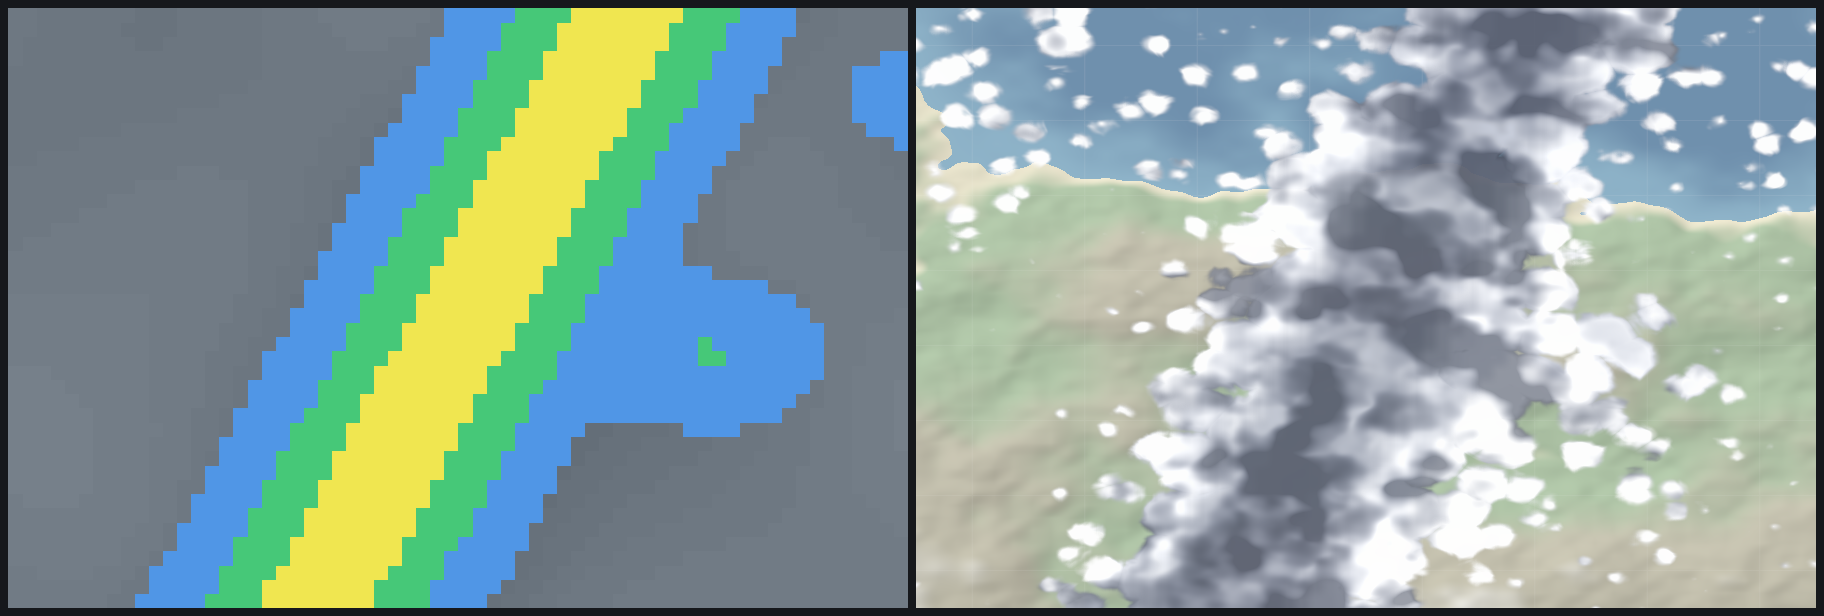
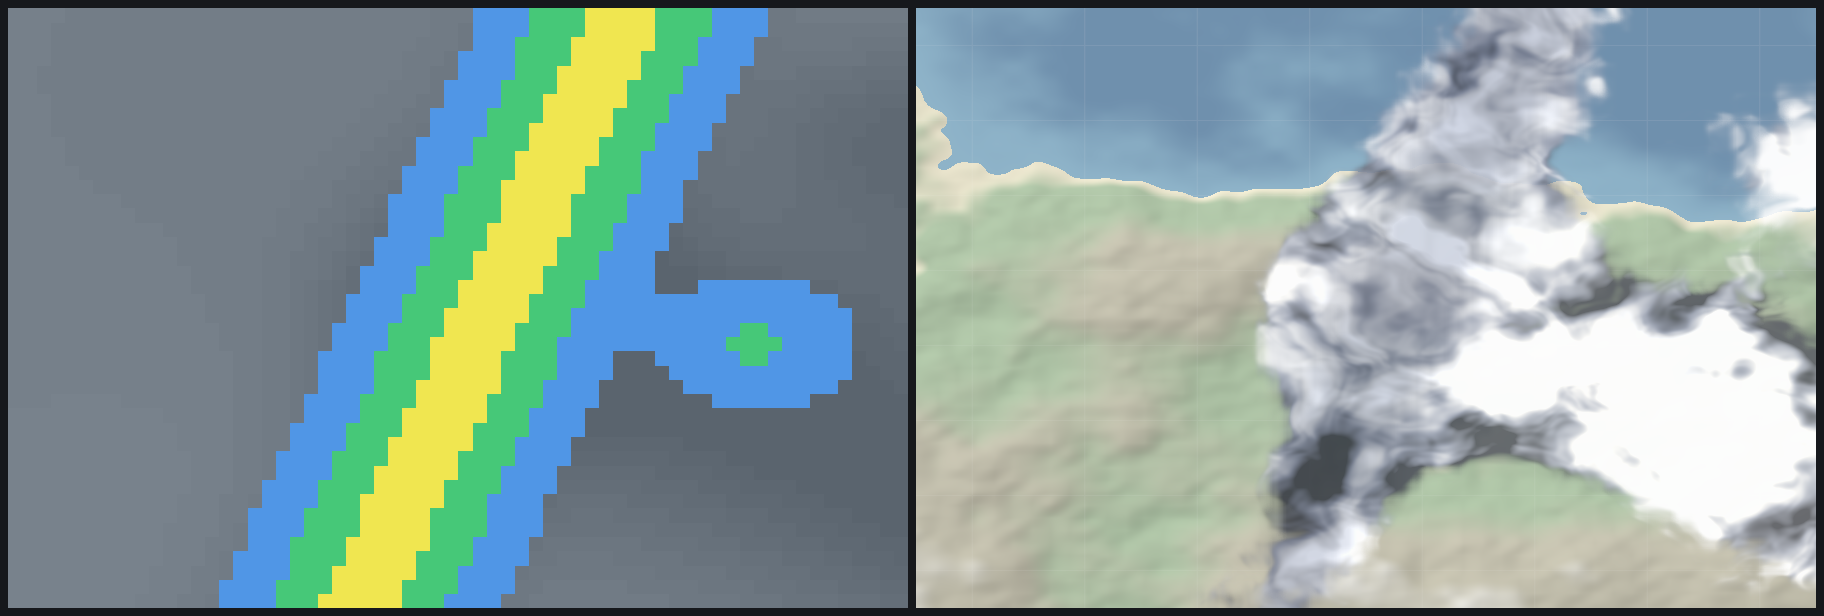
Rework cloud look: domain-warped fBm + relief lighting
The first pass rendered as white blotches and a flat grey smudge, not
clouds. Three root causes, all fixed:

- The base shape was 42% inverted-Worley, whose round cells thresholded
  into round-blob "popcorn". Replaced with pure domain-warped fBm, which
  gives natural billowy, wispy cloud forms.
- The synthetic data set coverage ~0.5 across all land (a uniform deck),
  so a puff popped out of every noise cell — a rash of dots. Reworked it
  into discrete large fair-weather cloud masses and a rainy frontal band
  over essentially clear sky, so clouds are coherent systems with gaps.
- Lighting used a separate low-contrast noise proxy that didn't match the
  visible silhouette, so nothing read as 3D. Now lighting comes from the
  SAME field via the relief trick (difference of the field sampled toward
  the sun), with a Beer self-shadow and silver-lining rim. Higher base
  level + wider dynamic range so sunlit cumulus read bright white with
  shadowed undersides, while rain cloud stays dark.

Also widened the alpha feather, dropped Worley/fbm3 (now unused), and
retuned defaults (larger feature scale, softer edges).

Claude-Session: https://claude.ai/code/session_01Sk4sd6Bq1GRyxiMNLaLEJ7

diff --git a/apps/turbomap/crates/turbomap-clouds/src/data.rs b/apps/turbomap/crates/turbomap-clouds/src/data.rs
@@ -109,15 +109,24 @@ impl SyntheticStorm {
 
                 // Frontal band: a soft diagonal line of rain sweeping
                 // west→east across the grid as `t` advances.
-                let front_x = -0.25 + t * 1.4; // normalised x of the band
+                let front_x = -0.2 + t * 1.35; // normalised x of the band
 
                 // A few convective cores riding the front, each drifting
-                // and pulsing on its own phase.
+                // and pulsing on its own phase. (phase, y, x0, amp)
                 let cores = [
-                    (0.10f32, 0.35f32, 0.95f32, 0.7f32),
-                    (-0.05, 0.62, 0.13, 0.55),
-                    (0.22, 0.78, 0.55, 0.5),
-                    (0.04, 0.20, 0.37, 0.45),
+                    (0.10f32, 0.38f32, 0.95f32, 0.85f32),
+                    (-0.05, 0.60, 0.18, 0.6),
+                    (0.22, 0.74, 0.55, 0.55),
+                ];
+
+                // Large, dry-ish fair-weather cloud masses with clear sky
+                // between them — drifting east. (y, x0, sigma, amp)
+                let masses = [
+                    (0.30f32, 0.78f32, 0.16f32, 0.85f32),
+                    (0.66, 0.30, 0.20, 0.95),
+                    (0.50, 0.05, 0.13, 0.7),
+                    (0.18, 0.50, 0.12, 0.6),
+                    (0.82, 0.62, 0.15, 0.75),
                 ];
 
                 for y in 0..self.height {
@@ -126,13 +135,24 @@ impl SyntheticStorm {
                         let ny = (y as f32 + 0.5) / h;
 
                         // Distance to the slanted frontal line.
-                        let band_pos = nx + (ny - 0.5) * 0.35;
-                        let band = gauss(band_pos - front_x, 0.12);
-                        // Coverage is broad cloud around the band plus a
-                        // calm ambient deck to the rear of the system.
-                        let mut coverage = band * 0.9 + ambient(nx, ny, t) * 0.5;
-                        // Precip only in the wetter heart of the band.
-                        let mut precip = band * band * 0.6;
+                        let band_pos = nx + (ny - 0.5) * 0.3;
+                        let band = gauss(band_pos - front_x, 0.10);
+
+                        // Coverage: the rainy frontal cloud, plus the dry
+                        // fair-weather masses, over an essentially clear
+                        // sky (small wandering ambient, not a uniform
+                        // deck — that was what produced the "rash").
+                        let mut coverage = band * 0.85 + ambient(nx, ny, t);
+                        // Precip lives only in the wettest heart of the
+                        // band; the fair-weather masses stay dry.
+                        let mut precip = band * band * 0.55;
+
+                        for (cy, cx0, sigma, amp) in masses {
+                            let cx = cx0 + t * 0.9 + 0.03 * (t * 4.0 + cy * 9.0).sin();
+                            let cyy = cy + 0.04 * (t * 3.0 + cx0 * 7.0).cos();
+                            let d = ((nx - cx).powi(2) + (ny - cyy).powi(2)).sqrt();
+                            coverage += gauss(d, sigma) * amp;
+                        }
 
                         for (phase, cy, cx0, amp) in cores {
                             // Each core drifts east with the front and
@@ -144,9 +164,9 @@ impl SyntheticStorm {
                             // and decay rather than just translate.
                             let pulse =
                                 0.55 + 0.45 * (t * 7.0 + phase * std::f32::consts::TAU).sin();
-                            let core = gauss(d, 0.07) * amp * pulse;
+                            let core = gauss(d, 0.06) * amp * pulse;
                             precip += core;
-                            coverage += core * 0.8;
+                            coverage += core * 0.9;
                         }
 
                         // Quantise to ~12 levels so the raw frame looks
@@ -170,10 +190,9 @@ fn gauss(d: f32, sigma: f32) -> f32 {
     (-(d * d) / (2.0 * sigma * sigma)).exp()
 }
 
-/// Low-frequency ambient cloud deck so the sky is never perfectly clear.
-/// Cheap sum-of-sines value field, drifting with `t`.
+/// Faint, slowly wandering wisps so the "clear" sky isn't dead flat —
+/// stays low (≈0..0.15) so it never fills in as a uniform overcast deck.
 fn ambient(x: f32, y: f32, t: f32) -> f32 {
-    let a = (x * 6.0 + t * 1.5).sin() * (y * 5.0 - t).cos();
-    let b = (x * 11.0 - t).sin() * (y * 9.0 + t * 0.7).cos();
-    (0.5 + 0.35 * a + 0.15 * b).clamp(0.0, 1.0)
+    let a = (x * 4.0 + t * 1.2).sin() * (y * 3.5 - t * 0.8).cos();
+    (0.06 + 0.09 * a).clamp(0.0, 0.18)
 }

diff --git a/apps/turbomap/crates/turbomap-clouds/src/lib.rs b/apps/turbomap/crates/turbomap-clouds/src/lib.rs
@@ -69,11 +69,11 @@ impl Default for CloudParams {
             time: 0.0,
             blend: 0.0,
             wind: [1.0, 0.25],
-            sun_dir: [0.55, -0.6],
-            map_scale: 9.5,
+            sun_dir: [0.7, -0.5],
+            map_scale: 4.0,
             erosion: 0.5,
-            softness: 0.26,
-            intensity: 0.97,
+            softness: 0.5,
+            intensity: 0.95,
         }
     }
 }